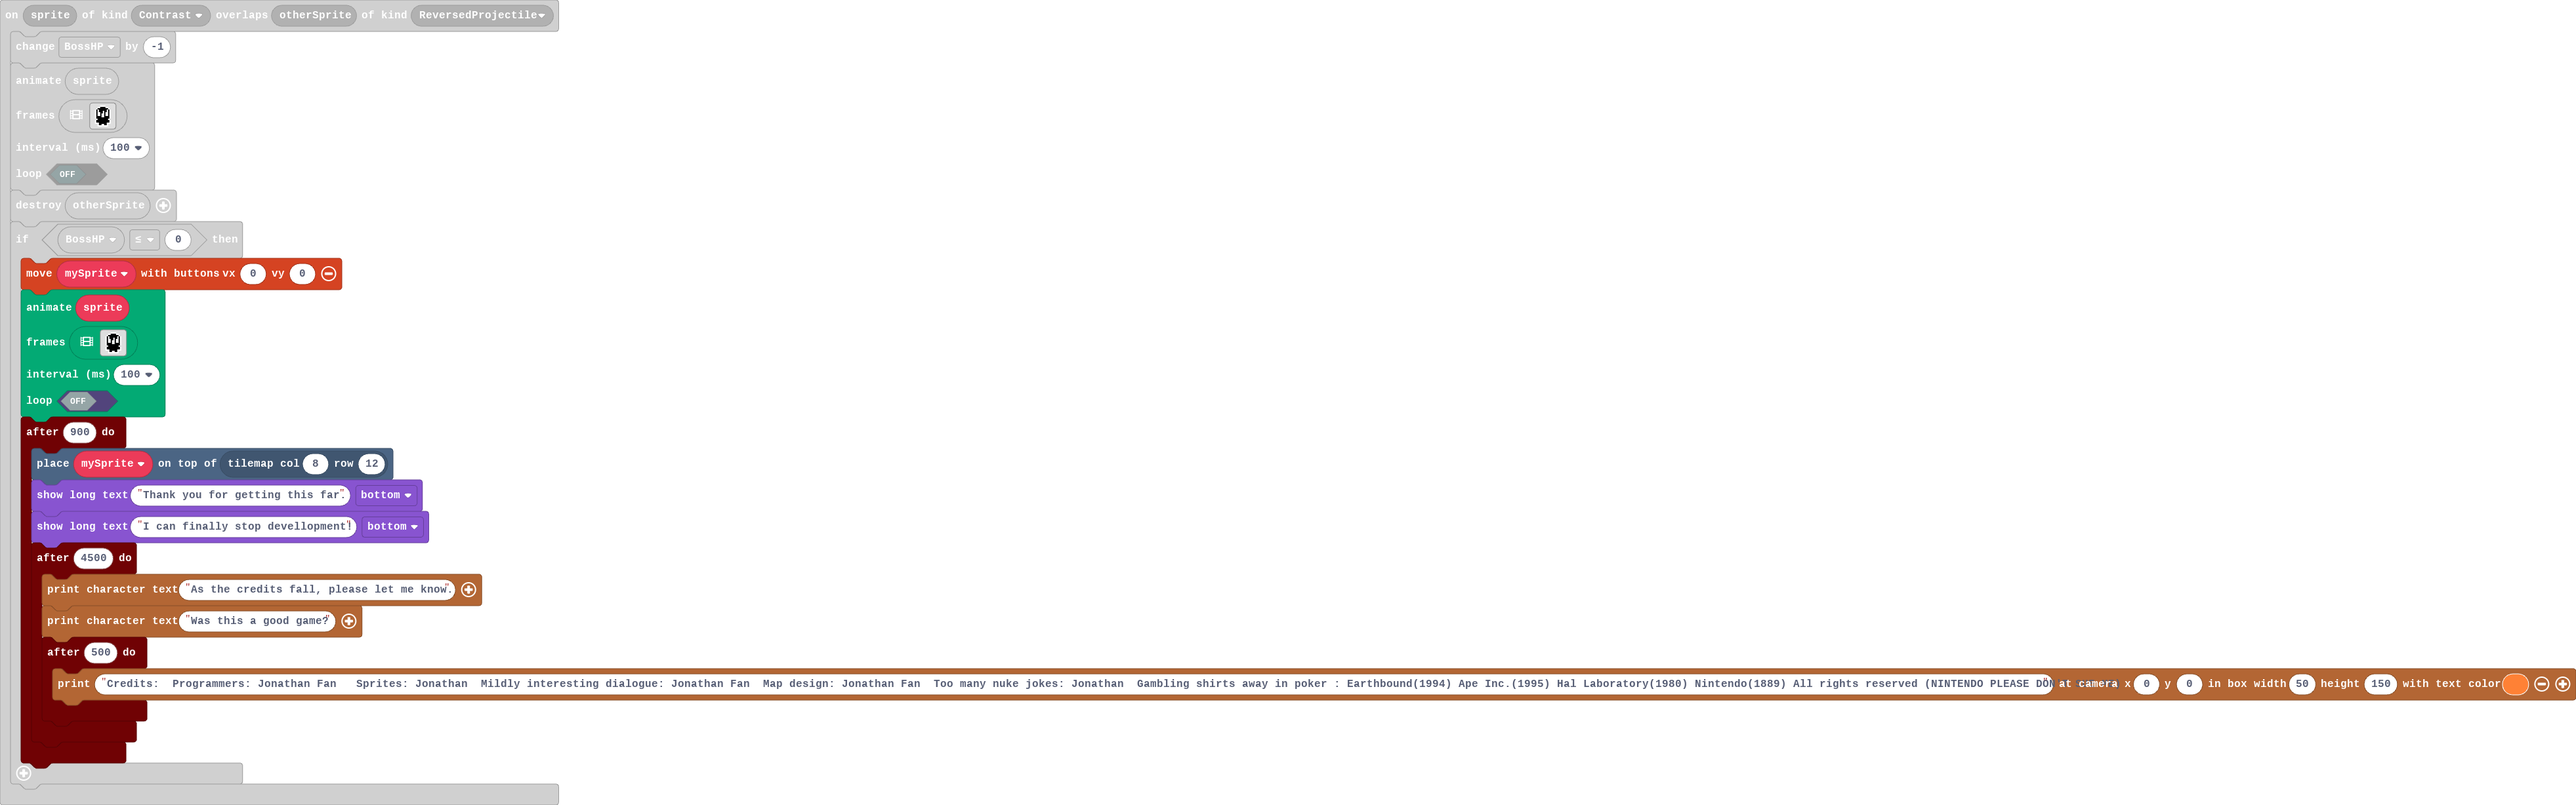
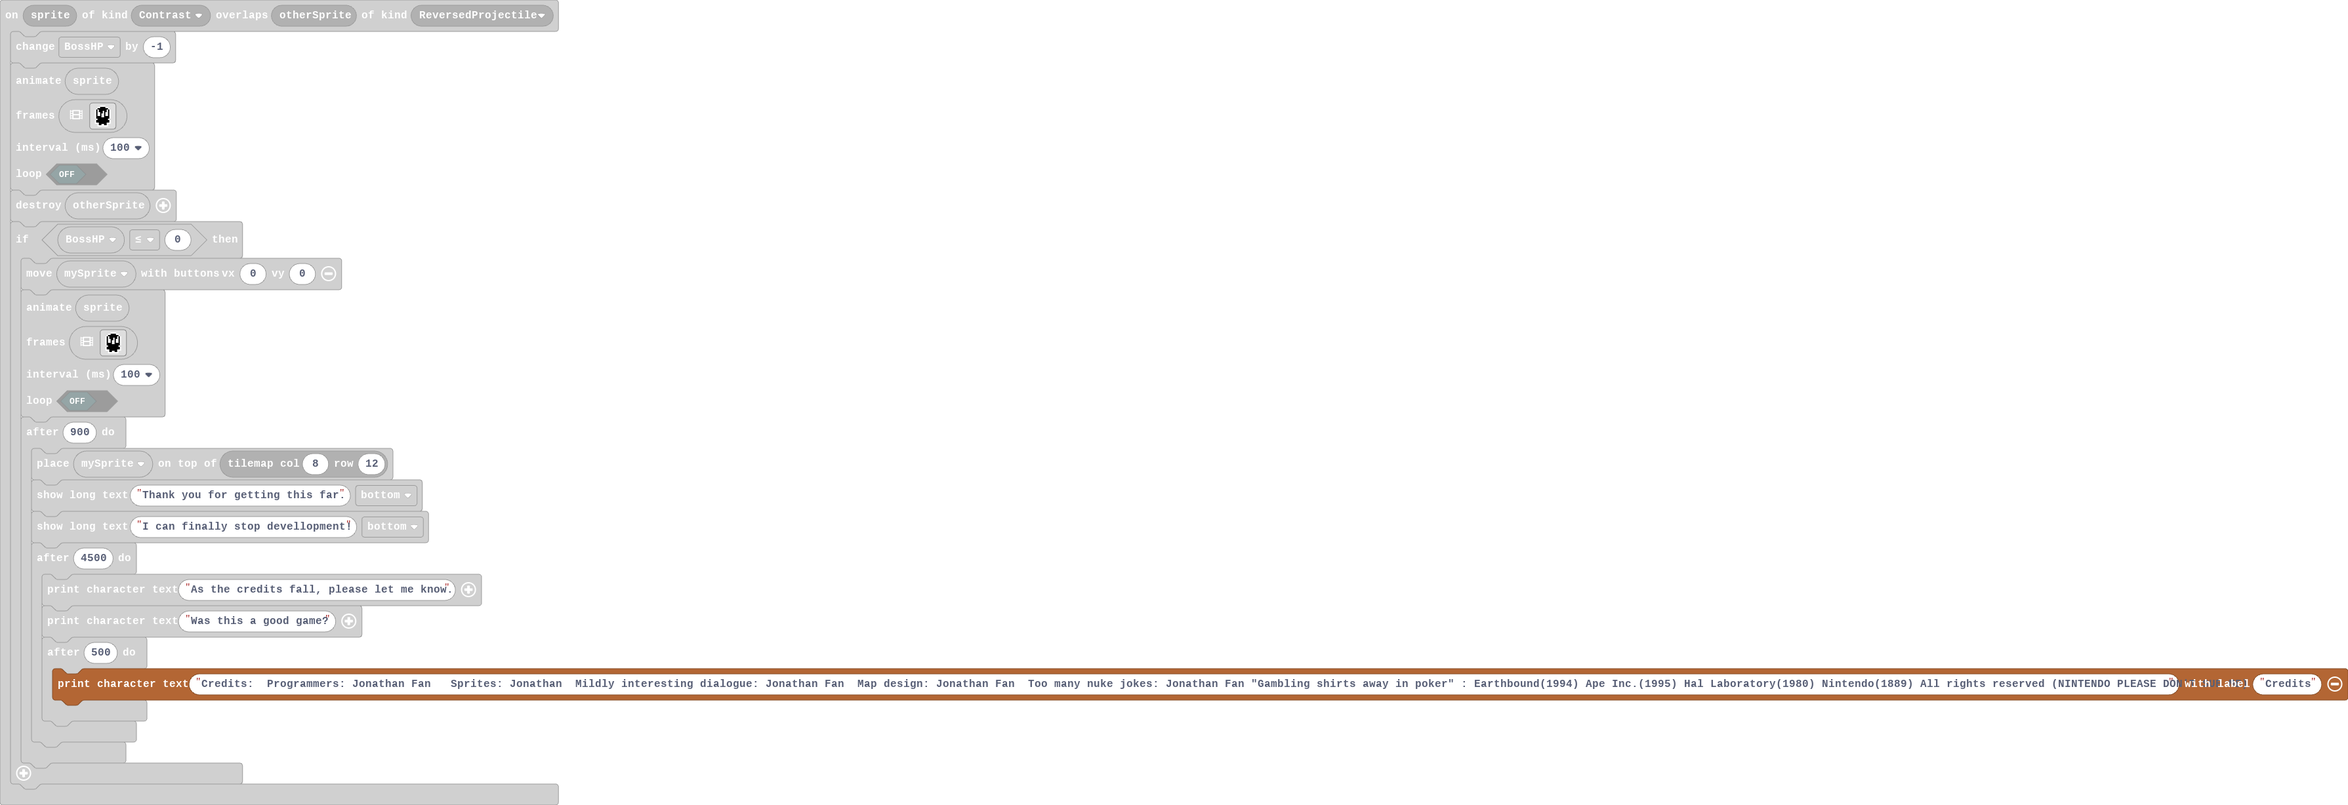
Update main.blocks, main.ts

Changed region(s): [[0.0, 0.0, 1.0, 0.9593], [0.2171, 0.9593, 0.2481, 1.0], [0.093, 0.9283, 0.1241, 0.9902]]

diff --git a/main.ts b/main.ts
@@ -573,7 +573,7 @@ sprites.onOverlap(SpriteKind.Contrast, SpriteKind.ReversedProjectile, function (
                 story.printCharacterText("As the credits fall, please let me know.")
                 story.printCharacterText("Was this a good game?")
                 timer.after(500, function () {
-                    story.printDialog("Credits:  Programmers: Jonathan Fan   Sprites: Jonathan  Mildly interesting dialogue: Jonathan Fan  Map design: Jonathan Fan  Too many nuke jokes: Jonathan  Gambling shirts away in poker : Earthbound(1994) Ape Inc.(1995) Hal Laboratory(1980) Nintendo(1889) All rights reserved (NINTENDO PLEASE DON'T SUE ME)", 0, 0, 150, 50, 4)
+                    story.printCharacterText("Credits:  Programmers: Jonathan Fan   Sprites: Jonathan  Mildly interesting dialogue: Jonathan Fan  Map design: Jonathan Fan  Too many nuke jokes: Jonathan Fan \"Gambling shirts away in poker\" : Earthbound(1994) Ape Inc.(1995) Hal Laboratory(1980) Nintendo(1889) All rights reserved (NINTENDO PLEASE DON'T SUE ME)", "Credits")
                 })
             })
         })
